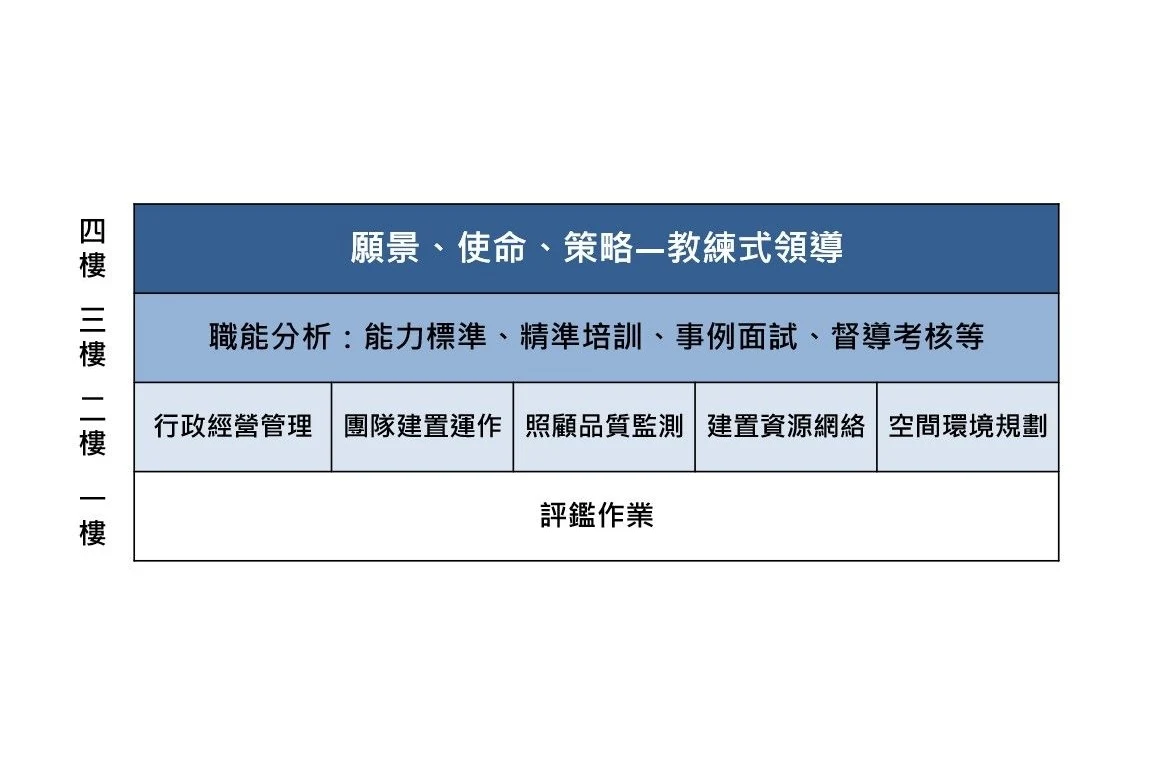
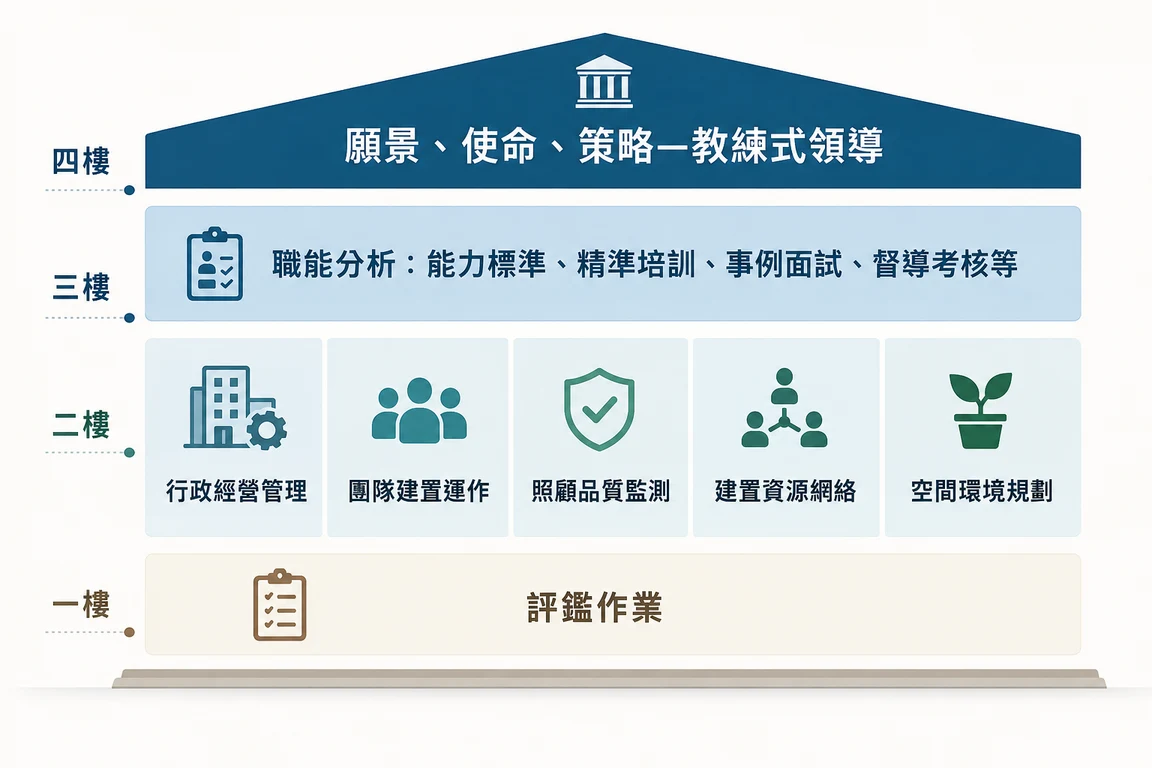
content: 四樓那篇換上新版主視覺
新圖畫成建築物的樣子，四層各有圖示，左側標樓層。原生就是 1536x1024，
不需要像上一版那樣墊白底板補成 3:2，所以改回 768/1152/1536 三種寬度，
與其他文章一致。heroAlt 依新圖重寫。

diff --git a/docs/index.html b/docs/index.html
@@ -28,7 +28,7 @@
 <link rel="icon" href="favicon.ico" sizes="32x32" />
 <link rel="apple-touch-icon" href="assets/img/icon-512.png" />
 <link rel="alternate" type="application/rss+xml" title="顏和平｜長照營運與評鑑顧問" href="feed.xml" />
-<script type="application/ld+json">{"@context":"https://schema.org","@graph":[{"@type":"WebSite","@id":"https://peaceyen.net/#website","url":"https://peaceyen.net/","name":"顏和平｜長照營運與評鑑顧問","alternateName":"機構經營實務筆記","inLanguage":"zh-Hant-TW","publisher":{"@id":"https://peaceyen.net/about/#person"}},{"@type":"Blog","@id":"https://peaceyen.net/#blog","url":"https://peaceyen.net/","name":"顏和平｜長照營運與評鑑顧問","description":"聚焦台灣長照機構的營運管理實務：人力配置、法規遵循、品質稽核、成本結構與日常流程改善。","inLanguage":"zh-Hant-TW","isPartOf":{"@id":"https://peaceyen.net/#website"},"breadcrumb":{"@id":"https://peaceyen.net/#breadcrumb"},"author":{"@id":"https://peaceyen.net/about/#person"},"publisher":{"@id":"https://peaceyen.net/about/#person"},"blogPost":[{"@type":"BlogPosting","headline":"評鑑優等，就等於營運卓越嗎？日照機構管理的四個樓層","description":"很多機構把評鑑做到優等，卻還是覺得每天在滅火。因為評鑑只是這棟樓的一樓。上面還有五大工作情境、職能標準，以及最上面那一層——願景、使命、策略與教練式領導。這篇談這四個樓層怎麼疊起來，以及為什麼大部分機構還停在一樓。","url":"https://peaceyen.net/20260827-management-four-floors/","image":{"@type":"ImageObject","url":"https://peaceyen.net/assets/img/hero-management-four-floors-1152.webp","width":1152,"height":768},"datePublished":"2026-08-27","dateModified":"2026-08-27","author":{"@id":"https://peaceyen.net/about/#person"}},{"@type":"BlogPosting","headline":"日照社工，到底在做什麼？從「角色模糊」逐漸釐清在日間照顧的「專業定位」","description":"長輩有問題找社工、家屬有疑問找社工、活動要規劃也找社工。日照社工好像什麼都能做，卻也因此很難說清楚自己的專業到底是什麼。這篇從我過去的研究出發，談日照社工的角色、需要的能力，以及機構可以怎麼重新看待這個位置。","url":"https://peaceyen.net/20260808-day-care-social-worker-role/","image":{"@type":"ImageObject","url":"https://peaceyen.net/assets/img/hero-day-care-social-worker-1536.webp","width":1536,"height":1024},"datePublished":"2026-08-08","dateModified":"2026-08-24","author":{"@id":"https://peaceyen.net/about/#person"}},{"@type":"BlogPosting","headline":"日照社工的角色困境：當「什麼都做」成為專業的另一種負擔","description":"個案要做、家屬要聯繫、活動要規劃、核銷要處理、評鑑要準備，現場缺人還要下去補。在日照中心，什麼事情都可以找社工。但當一個人什麼都做的時候，他真正的專業反而可能越來越不容易被看見。","url":"https://peaceyen.net/20260808-day-care-social-worker-dilemma/","image":{"@type":"ImageObject","url":"https://peaceyen.net/assets/img/hero-day-care-social-worker-dilemma-1536.webp","width":1536,"height":1024},"datePublished":"2026-08-07","dateModified":"2026-08-24","author":{"@id":"https://peaceyen.net/about/#person"}},{"@type":"BlogPosting","headline":"解構日照評鑑痛點：如何從「事件中心」走向「服務中心」的日常管理？","description":"現行評鑑制度傾向以「事件為中心」設計，讓第一線人員在緊湊的服務節奏中難以流暢完成文件紀錄。要突破這個瓶頸，得回到服務流程管理的角度，把指標拆解重組進日常工作。","url":"https://www.ankecare.com/article/4571-2026-07-27-10-40-23","image":{"@type":"ImageObject","url":"https://peaceyen.net/assets/img/hero-event-to-service-1536.webp","width":1536,"height":1024},"datePublished":"2026-08-02","dateModified":"2026-08-08","author":{"@id":"https://peaceyen.net/about/#person"}},{"@type":"BlogPosting","headline":"我的長照，從第一線開始","description":"很多人認識現在的我，是顧問、講師或博士生。但我的長照旅程不是從研究室開始，而是從照顧服務員開始。這篇談我一路走過的角色，以及為什麼我認為長照需要的不只是努力，而是方法。","url":"https://peaceyen.net/20260804-my-ltc-journey/","image":{"@type":"ImageObject","url":"https://peaceyen.net/assets/img/hero-my-ltc-journey-1536.webp","width":1536,"height":1024},"datePublished":"2026-08-01","dateModified":"2026-08-08","author":{"@id":"https://peaceyen.net/about/#person"}}]},{"@type":"BreadcrumbList","@id":"https://peaceyen.net/#breadcrumb","itemListElement":[{"@type":"ListItem","position":1,"name":"顏和平｜長照營運與評鑑顧問","item":"https://peaceyen.net/"}]}]}</script>
+<script type="application/ld+json">{"@context":"https://schema.org","@graph":[{"@type":"WebSite","@id":"https://peaceyen.net/#website","url":"https://peaceyen.net/","name":"顏和平｜長照營運與評鑑顧問","alternateName":"機構經營實務筆記","inLanguage":"zh-Hant-TW","publisher":{"@id":"https://peaceyen.net/about/#person"}},{"@type":"Blog","@id":"https://peaceyen.net/#blog","url":"https://peaceyen.net/","name":"顏和平｜長照營運與評鑑顧問","description":"聚焦台灣長照機構的營運管理實務：人力配置、法規遵循、品質稽核、成本結構與日常流程改善。","inLanguage":"zh-Hant-TW","isPartOf":{"@id":"https://peaceyen.net/#website"},"breadcrumb":{"@id":"https://peaceyen.net/#breadcrumb"},"author":{"@id":"https://peaceyen.net/about/#person"},"publisher":{"@id":"https://peaceyen.net/about/#person"},"blogPost":[{"@type":"BlogPosting","headline":"評鑑優等，就等於營運卓越嗎？日照機構管理的四個樓層","description":"很多機構把評鑑做到優等，卻還是覺得每天在滅火。因為評鑑只是這棟樓的一樓。上面還有五大工作情境、職能標準，以及最上面那一層——願景、使命、策略與教練式領導。這篇談這四個樓層怎麼疊起來，以及為什麼大部分機構還停在一樓。","url":"https://peaceyen.net/20260827-management-four-floors/","image":{"@type":"ImageObject","url":"https://peaceyen.net/assets/img/hero-management-four-floors-1536.webp","width":1536,"height":1024},"datePublished":"2026-08-27","dateModified":"2026-08-27","author":{"@id":"https://peaceyen.net/about/#person"}},{"@type":"BlogPosting","headline":"日照社工，到底在做什麼？從「角色模糊」逐漸釐清在日間照顧的「專業定位」","description":"長輩有問題找社工、家屬有疑問找社工、活動要規劃也找社工。日照社工好像什麼都能做，卻也因此很難說清楚自己的專業到底是什麼。這篇從我過去的研究出發，談日照社工的角色、需要的能力，以及機構可以怎麼重新看待這個位置。","url":"https://peaceyen.net/20260808-day-care-social-worker-role/","image":{"@type":"ImageObject","url":"https://peaceyen.net/assets/img/hero-day-care-social-worker-1536.webp","width":1536,"height":1024},"datePublished":"2026-08-08","dateModified":"2026-08-24","author":{"@id":"https://peaceyen.net/about/#person"}},{"@type":"BlogPosting","headline":"日照社工的角色困境：當「什麼都做」成為專業的另一種負擔","description":"個案要做、家屬要聯繫、活動要規劃、核銷要處理、評鑑要準備，現場缺人還要下去補。在日照中心，什麼事情都可以找社工。但當一個人什麼都做的時候，他真正的專業反而可能越來越不容易被看見。","url":"https://peaceyen.net/20260808-day-care-social-worker-dilemma/","image":{"@type":"ImageObject","url":"https://peaceyen.net/assets/img/hero-day-care-social-worker-dilemma-1536.webp","width":1536,"height":1024},"datePublished":"2026-08-07","dateModified":"2026-08-24","author":{"@id":"https://peaceyen.net/about/#person"}},{"@type":"BlogPosting","headline":"解構日照評鑑痛點：如何從「事件中心」走向「服務中心」的日常管理？","description":"現行評鑑制度傾向以「事件為中心」設計，讓第一線人員在緊湊的服務節奏中難以流暢完成文件紀錄。要突破這個瓶頸，得回到服務流程管理的角度，把指標拆解重組進日常工作。","url":"https://www.ankecare.com/article/4571-2026-07-27-10-40-23","image":{"@type":"ImageObject","url":"https://peaceyen.net/assets/img/hero-event-to-service-1536.webp","width":1536,"height":1024},"datePublished":"2026-08-02","dateModified":"2026-08-08","author":{"@id":"https://peaceyen.net/about/#person"}},{"@type":"BlogPosting","headline":"我的長照，從第一線開始","description":"很多人認識現在的我，是顧問、講師或博士生。但我的長照旅程不是從研究室開始，而是從照顧服務員開始。這篇談我一路走過的角色，以及為什麼我認為長照需要的不只是努力，而是方法。","url":"https://peaceyen.net/20260804-my-ltc-journey/","image":{"@type":"ImageObject","url":"https://peaceyen.net/assets/img/hero-my-ltc-journey-1536.webp","width":1536,"height":1024},"datePublished":"2026-08-01","dateModified":"2026-08-08","author":{"@id":"https://peaceyen.net/about/#person"}}]},{"@type":"BreadcrumbList","@id":"https://peaceyen.net/#breadcrumb","itemListElement":[{"@type":"ListItem","position":1,"name":"顏和平｜長照營運與評鑑顧問","item":"https://peaceyen.net/"}]}]}</script>
 <script>
   window.__SITE__ = { counter: { apiBase: "https://peaceyen.net" } };
 </script>
@@ -130,12 +130,12 @@
           <article>
             <a class="card__thumb" href="20260827-management-four-floors/" tabindex="-1" aria-hidden="true">
               <img
-                src="assets/img/hero-management-four-floors-1152.webp?v=640a5b0d48"
-                srcset="assets/img/hero-management-four-floors-768.webp?v=fdebcf5201 768w, assets/img/hero-management-four-floors-1152.webp?v=640a5b0d48 1152w"
+                src="assets/img/hero-management-four-floors-1536.webp?v=a8691e3c7c"
+                srcset="assets/img/hero-management-four-floors-768.webp?v=3f9a495be5 768w, assets/img/hero-management-four-floors-1152.webp?v=62bd4f72f8 1152w, assets/img/hero-management-four-floors-1536.webp?v=a8691e3c7c 1536w"
                 sizes="(max-width: 46rem) calc(100vw - 2rem), 27rem"
                 alt=""
-                width="1152"
-                height="768"
+                width="1536"
+                height="1024"
                 loading="lazy" decoding="async"
               />
             </a>

diff --git a/docs/20260827-management-four-floors/index.html b/docs/20260827-management-four-floors/index.html
@@ -12,15 +12,15 @@
 <meta property="og:title" content="評鑑優等就等於營運卓越嗎？日照機構管理的四個樓層｜顏和平" />
 <meta property="og:description" content="評鑑是一樓、五大工作情境是二樓、職能分析是三樓、願景與策略是四樓。從一場營運管理共識會談日照機構為什麼要往上蓋，以及四樓的教練式領導在現場長什麼樣子。" />
 <meta property="og:locale" content="zh_TW" />
-<meta property="og:image" content="https://peaceyen.net/assets/img/hero-management-four-floors-1152.webp" />
-<meta property="og:image:width" content="1152" />
-<meta property="og:image:height" content="768" />
-<meta property="og:image:alt" content="文章主視覺，一張分成四層的架構圖。最上層深藍色為「四樓：願景、使命、策略—教練式領導」；第二層淺藍色為「三樓：職能分析：能力標準、精準培訓、事例面試、督導考核等」；第三層橫向並列五格，為「二樓：行政經營管理、團隊建置運作、照顧品質監測、建置資源網絡、空間環境規劃」；最底層為「一樓：評鑑作業」。圖的左側由上而下標示四樓、三樓、二樓、一樓。" />
+<meta property="og:image" content="https://peaceyen.net/assets/img/hero-management-four-floors-1536.webp" />
+<meta property="og:image:width" content="1536" />
+<meta property="og:image:height" content="1024" />
+<meta property="og:image:alt" content="文章主視覺，一張畫成建築物的四層架構圖，左側由上而下標示四樓、三樓、二樓、一樓。屋頂為深藍色的「願景、使命、策略—教練式領導」，並帶一個機構圖示；其下淺藍色一整條為「職能分析：能力標準、精準培訓、事例面試、督導考核等」；再下一層橫向並列五格，各配一個圖示，依序為行政經營管理、團隊建置運作、照顧品質監測、建置資源網絡、空間環境規劃；最底層米色一整條為「評鑑作業」，下方是地基。" />
 <meta name="twitter:card" content="summary_large_image" />
 <meta name="twitter:title" content="評鑑優等就等於營運卓越嗎？日照機構管理的四個樓層｜顏和平" />
 <meta name="twitter:description" content="評鑑是一樓、五大工作情境是二樓、職能分析是三樓、願景與策略是四樓。從一場營運管理共識會談日照機構為什麼要往上蓋，以及四樓的教練式領導在現場長什麼樣子。" />
-<meta name="twitter:image" content="https://peaceyen.net/assets/img/hero-management-four-floors-1152.webp" />
-<meta name="twitter:image:alt" content="文章主視覺，一張分成四層的架構圖。最上層深藍色為「四樓：願景、使命、策略—教練式領導」；第二層淺藍色為「三樓：職能分析：能力標準、精準培訓、事例面試、督導考核等」；第三層橫向並列五格，為「二樓：行政經營管理、團隊建置運作、照顧品質監測、建置資源網絡、空間環境規劃」；最底層為「一樓：評鑑作業」。圖的左側由上而下標示四樓、三樓、二樓、一樓。" />
+<meta name="twitter:image" content="https://peaceyen.net/assets/img/hero-management-four-floors-1536.webp" />
+<meta name="twitter:image:alt" content="文章主視覺，一張畫成建築物的四層架構圖，左側由上而下標示四樓、三樓、二樓、一樓。屋頂為深藍色的「願景、使命、策略—教練式領導」，並帶一個機構圖示；其下淺藍色一整條為「職能分析：能力標準、精準培訓、事例面試、督導考核等」；再下一層橫向並列五格，各配一個圖示，依序為行政經營管理、團隊建置運作、照顧品質監測、建置資源網絡、空間環境規劃；最底層米色一整條為「評鑑作業」，下方是地基。" />
 <meta property="og:url" content="https://peaceyen.net/20260827-management-four-floors/" />
 <link rel="canonical" href="https://peaceyen.net/20260827-management-four-floors/" />
 <link rel="stylesheet" href="../assets/css/site.css?v=4992660e66" />
@@ -31,7 +31,7 @@
 <meta property="article:published_time" content="2026-08-27" />
 <meta property="article:modified_time" content="2026-08-27" />
 <meta property="article:author" content="顏和平" />
-<script type="application/ld+json">{"@context":"https://schema.org","@graph":[{"@type":"WebSite","@id":"https://peaceyen.net/#website","url":"https://peaceyen.net/","name":"顏和平｜長照營運與評鑑顧問","alternateName":"機構經營實務筆記","inLanguage":"zh-Hant-TW","publisher":{"@id":"https://peaceyen.net/about/#person"}},{"@type":"BlogPosting","headline":"評鑑優等，就等於營運卓越嗎？日照機構管理的四個樓層","description":"很多機構把評鑑做到優等，卻還是覺得每天在滅火。因為評鑑只是這棟樓的一樓。上面還有五大工作情境、職能標準，以及最上面那一層——願景、使命、策略與教練式領導。這篇談這四個樓層怎麼疊起來，以及為什麼大部分機構還停在一樓。","inLanguage":"zh-Hant-TW","isPartOf":{"@id":"https://peaceyen.net/#website"},"breadcrumb":{"@id":"https://peaceyen.net/20260827-management-four-floors/#breadcrumb"},"url":"https://peaceyen.net/20260827-management-four-floors/","mainEntityOfPage":{"@type":"WebPage","@id":"https://peaceyen.net/20260827-management-four-floors/"},"image":{"@type":"ImageObject","url":"https://peaceyen.net/assets/img/hero-management-four-floors-1152.webp","width":1152,"height":768},"datePublished":"2026-08-27","dateModified":"2026-08-27","author":{"@id":"https://peaceyen.net/about/#person"},"publisher":{"@id":"https://peaceyen.net/about/#person"},"keywords":"營運管理, 日間照顧, 領導"},{"@type":"BreadcrumbList","@id":"https://peaceyen.net/20260827-management-four-floors/#breadcrumb","itemListElement":[{"@type":"ListItem","position":1,"name":"顏和平｜長照營運與評鑑顧問","item":"https://peaceyen.net/"},{"@type":"ListItem","position":2,"name":"全部文章","item":"https://peaceyen.net/articles/"},{"@type":"ListItem","position":3,"name":"評鑑優等，就等於營運卓越嗎？日照機構管理的四個樓層"}]}]}</script>
+<script type="application/ld+json">{"@context":"https://schema.org","@graph":[{"@type":"WebSite","@id":"https://peaceyen.net/#website","url":"https://peaceyen.net/","name":"顏和平｜長照營運與評鑑顧問","alternateName":"機構經營實務筆記","inLanguage":"zh-Hant-TW","publisher":{"@id":"https://peaceyen.net/about/#person"}},{"@type":"BlogPosting","headline":"評鑑優等，就等於營運卓越嗎？日照機構管理的四個樓層","description":"很多機構把評鑑做到優等，卻還是覺得每天在滅火。因為評鑑只是這棟樓的一樓。上面還有五大工作情境、職能標準，以及最上面那一層——願景、使命、策略與教練式領導。這篇談這四個樓層怎麼疊起來，以及為什麼大部分機構還停在一樓。","inLanguage":"zh-Hant-TW","isPartOf":{"@id":"https://peaceyen.net/#website"},"breadcrumb":{"@id":"https://peaceyen.net/20260827-management-four-floors/#breadcrumb"},"url":"https://peaceyen.net/20260827-management-four-floors/","mainEntityOfPage":{"@type":"WebPage","@id":"https://peaceyen.net/20260827-management-four-floors/"},"image":{"@type":"ImageObject","url":"https://peaceyen.net/assets/img/hero-management-four-floors-1536.webp","width":1536,"height":1024},"datePublished":"2026-08-27","dateModified":"2026-08-27","author":{"@id":"https://peaceyen.net/about/#person"},"publisher":{"@id":"https://peaceyen.net/about/#person"},"keywords":"營運管理, 日間照顧, 領導"},{"@type":"BreadcrumbList","@id":"https://peaceyen.net/20260827-management-four-floors/#breadcrumb","itemListElement":[{"@type":"ListItem","position":1,"name":"顏和平｜長照營運與評鑑顧問","item":"https://peaceyen.net/"},{"@type":"ListItem","position":2,"name":"全部文章","item":"https://peaceyen.net/articles/"},{"@type":"ListItem","position":3,"name":"評鑑優等，就等於營運卓越嗎？日照機構管理的四個樓層"}]}]}</script>
 <script>
   window.__SITE__ = { counter: { apiBase: "https://peaceyen.net" } };
 </script>
@@ -63,15 +63,15 @@
 
       <section class="hero">
         <figure class="hero__figure">
-          <a class="hero__zoom" href="../assets/img/hero-management-four-floors-1152.webp?v=640a5b0d48" target="_blank" rel="noopener noreferrer" aria-describedby="hero-caption">
+          <a class="hero__zoom" href="../assets/img/hero-management-four-floors-1536.webp?v=a8691e3c7c" target="_blank" rel="noopener noreferrer" aria-describedby="hero-caption">
             <img
             class="hero__img"
-            src="../assets/img/hero-management-four-floors-1152.webp?v=640a5b0d48"
-            srcset="../assets/img/hero-management-four-floors-768.webp?v=fdebcf5201 768w, ../assets/img/hero-management-four-floors-1152.webp?v=640a5b0d48 1152w"
+            src="../assets/img/hero-management-four-floors-1536.webp?v=a8691e3c7c"
+            srcset="../assets/img/hero-management-four-floors-768.webp?v=3f9a495be5 768w, ../assets/img/hero-management-four-floors-1152.webp?v=62bd4f72f8 1152w, ../assets/img/hero-management-four-floors-1536.webp?v=a8691e3c7c 1536w"
             sizes="(max-width: 44rem) 100vw, 42rem"
-            alt="文章主視覺，一張分成四層的架構圖。最上層深藍色為「四樓：願景、使命、策略—教練式領導」；第二層淺藍色為「三樓：職能分析：能力標準、精準培訓、事例面試、督導考核等」；第三層橫向並列五格，為「二樓：行政經營管理、團隊建置運作、照顧品質監測、建置資源網絡、空間環境規劃」；最底層為「一樓：評鑑作業」。圖的左側由上而下標示四樓、三樓、二樓、一樓。"
-            width="1152"
-            height="768"
+            alt="文章主視覺，一張畫成建築物的四層架構圖，左側由上而下標示四樓、三樓、二樓、一樓。屋頂為深藍色的「願景、使命、策略—教練式領導」，並帶一個機構圖示；其下淺藍色一整條為「職能分析：能力標準、精準培訓、事例面試、督導考核等」；再下一層橫向並列五格，各配一個圖示，依序為行政經營管理、團隊建置運作、照顧品質監測、建置資源網絡、空間環境規劃；最底層米色一整條為「評鑑作業」，下方是地基。"
+            width="1536"
+            height="1024"
             fetchpriority="high"
             decoding="async"
           />

diff --git a/docs/articles/index.html b/docs/articles/index.html
@@ -80,12 +80,12 @@
           <article>
             <a class="card__thumb" href="../20260827-management-four-floors/" tabindex="-1" aria-hidden="true">
               <img
-                src="../assets/img/hero-management-four-floors-1152.webp?v=640a5b0d48"
-                srcset="../assets/img/hero-management-four-floors-768.webp?v=fdebcf5201 768w, ../assets/img/hero-management-four-floors-1152.webp?v=640a5b0d48 1152w"
+                src="../assets/img/hero-management-four-floors-1536.webp?v=a8691e3c7c"
+                srcset="../assets/img/hero-management-four-floors-768.webp?v=3f9a495be5 768w, ../assets/img/hero-management-four-floors-1152.webp?v=62bd4f72f8 1152w, ../assets/img/hero-management-four-floors-1536.webp?v=a8691e3c7c 1536w"
                 sizes="(max-width: 46rem) calc(100vw - 2rem), 27rem"
                 alt=""
-                width="1152"
-                height="768"
+                width="1536"
+                height="1024"
                 fetchpriority="high" decoding="async"
               />
             </a>
